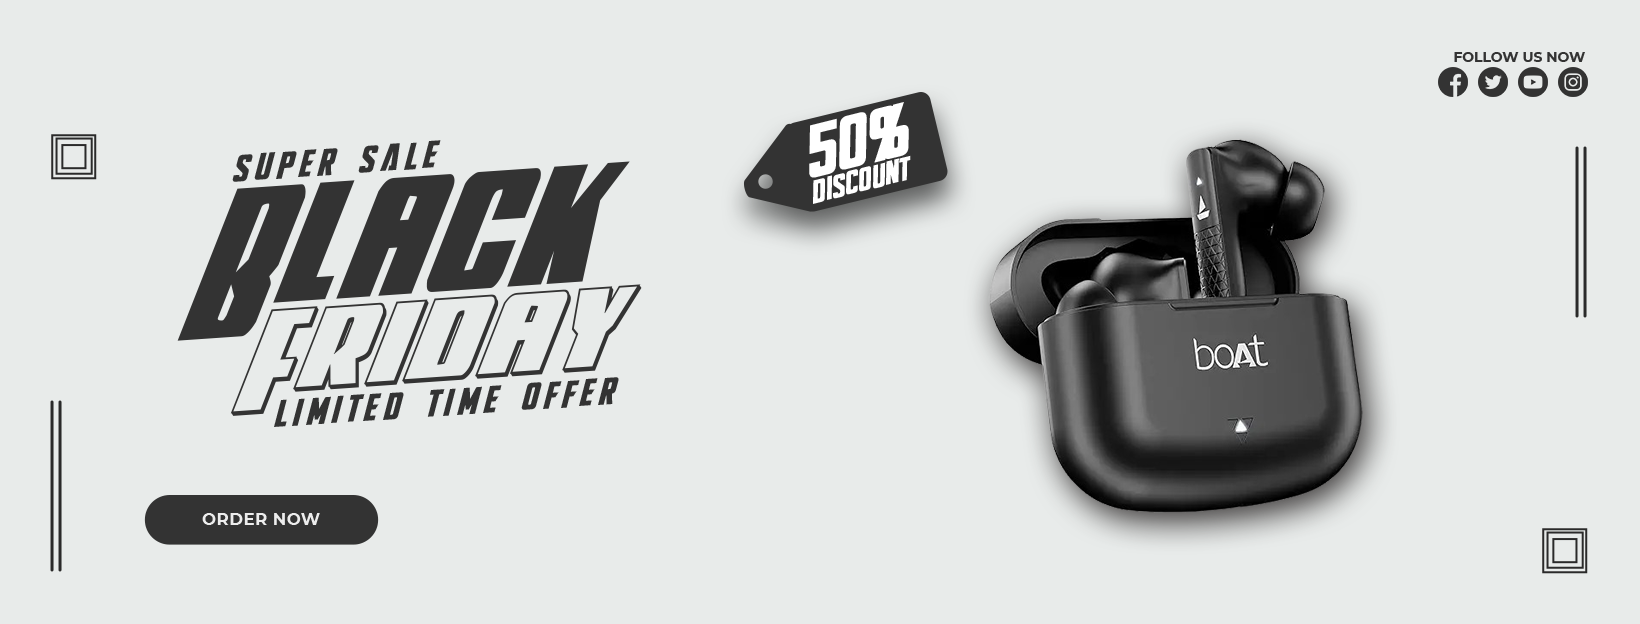
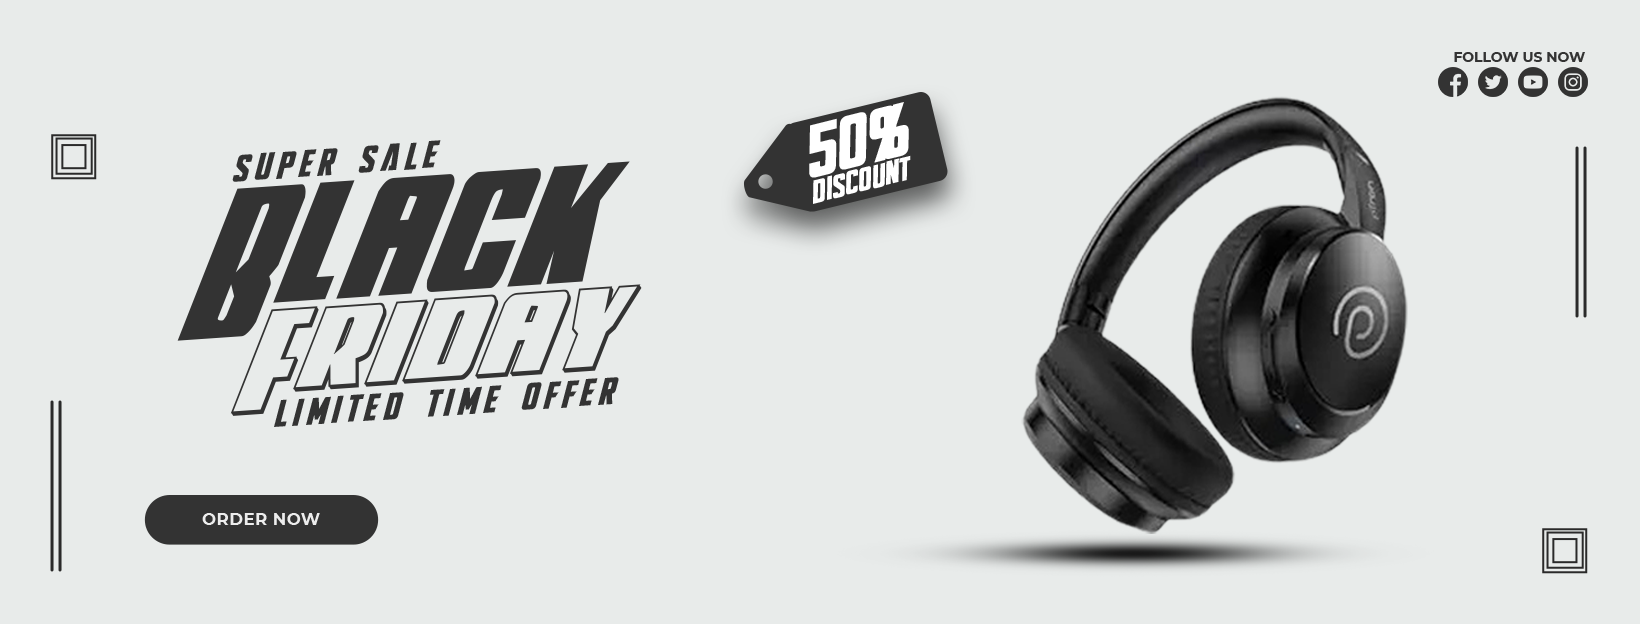
final commit

Changed region(s): [[0.5598, 0.1522, 0.8707, 0.9135]]

diff --git a/src/components/Banner.jsx b/src/components/Banner.jsx
@@ -51,98 +51,98 @@
 
 
 
-import { useEffect, useState } from "react";
-import { motion, AnimatePresence } from "framer-motion";
+// import { useEffect, useState } from "react";
+// import { motion, AnimatePresence } from "framer-motion";
 
-// Banner Images
-import shoesbanner from "../assets/shoesbanner.jpg";
-import hedsetbanner from "../assets/hedsetbanner.jpg";
-import airpodbanner from "../assets/airpodbenner.jpg";
-import watchbanner from "../assets/watchbanner.jpg";
+// // Banner Images
+// // import shoesbanner from "../assets/shoes banner.png";
+// // import hedsetbanner from "../assets/hedsetbanner.png";
+// // import airpodbanner from "../assets/airpodbenner.png";
+// // import watchbanner from "../assets/watchbanner.jpg";
 
 
 
-const banners = [watchbanner, shoesbanner, hedsetbanner, airpodbanner];
+// const banners = [watchbanner, shoesbanner, hedsetbanner, airpodbanner];
 
-const Banner = () => {
-  const [currentIndex, setCurrentIndex] = useState(0);
-  const [direction, setDirection] = useState(1); // 1 for next, -1 for prev
-  const [isPaused, setIsPaused] = useState(false);
+// const Banner = () => {
+//   const [currentIndex, setCurrentIndex] = useState(0);
+//   const [direction, setDirection] = useState(1); // 1 for next, -1 for prev
+//   const [isPaused, setIsPaused] = useState(false);
 
-  useEffect(() => {
-    if (isPaused) return;
-    const interval = setInterval(() => {
-      handleNext();
-    }, 3000); // change every 3 sec
-    return () => clearInterval(interval);
-  }, [currentIndex, isPaused]);
+//   useEffect(() => {
+//     if (isPaused) return;
+//     const interval = setInterval(() => {
+//       handleNext();
+//     }, 3000); // change every 3 sec
+//     return () => clearInterval(interval);
+//   }, [currentIndex, isPaused]);
 
-  const handleNext = () => {
-    setDirection(1);
-    setCurrentIndex((prev) => (prev + 1) % banners.length);
-  };
+//   const handleNext = () => {
+//     setDirection(1);
+//     setCurrentIndex((prev) => (prev + 1) % banners.length);
+//   };
 
-  const handlePrev = () => {
-    setDirection(-1);
-    setCurrentIndex((prev) =>
-      prev === 0 ? banners.length - 1 : prev - 1
-    );
-  };
+//   const handlePrev = () => {
+//     setDirection(-1);
+//     setCurrentIndex((prev) =>
+//       prev === 0 ? banners.length - 1 : prev - 1
+//     );
+//   };
 
-  const variants = {
-    enter: (direction) => ({
-      x: direction > 0 ? 300 : -300,
-      opacity: 0,
-    }),
-    center: {
-      x: 0,
-      opacity: 1,
-    },
-    exit: (direction) => ({
-      x: direction > 0 ? -300 : 300,
-      opacity: 0,
-    }),
-  };
+//   const variants = {
+//     enter: (direction) => ({
+//       x: direction > 0 ? 300 : -300,
+//       opacity: 0,
+//     }),
+//     center: {
+//       x: 0,
+//       opacity: 1,
+//     },
+//     exit: (direction) => ({
+//       x: direction > 0 ? -300 : 300,
+//       opacity: 0,
+//     }),
+//   };
 
-  return (
-    <div
-      className="relative w-full  -mt-10 lg:mt-12  h-[240px] sm:h-[300px] md:h-[400px] lg:h-[665px] loverflow-hidden"
-      onMouseEnter={() => setIsPaused(true)}
-      onMouseLeave={() => setIsPaused(false)}
-    >
-      <AnimatePresence custom={direction}>
-        <motion.img
-          key={currentIndex}
-          src={banners[currentIndex]}
-          custom={direction}
-          variants={variants}
-          initial="enter"
-          animate="center"
-          exit="exit"
-          transition={{ duration: 0.5 }}
-          className="absolute w-full h-full object-contain object-center cursor-pointer"
-          onClick={() => window.location.href = "/shop"}
-        />
-      </AnimatePresence>
+//   return (
+//     <div
+//       className="relative w-full  -mt-10 lg:mt-12  h-[240px] sm:h-[300px] md:h-[400px] lg:h-[665px] loverflow-hidden"
+//       onMouseEnter={() => setIsPaused(true)}
+//       onMouseLeave={() => setIsPaused(false)}
+//     >
+//       <AnimatePresence custom={direction}>
+//         <motion.img
+//           key={currentIndex}
+//           src={banners[currentIndex]}
+//           custom={direction}
+//           variants={variants}
+//           initial="enter"
+//           animate="center"
+//           exit="exit"
+//           transition={{ duration: 0.5 }}
+//           className="absolute w-full h-full object-contain object-center cursor-pointer"
+//           onClick={() => window.location.href = "/shop"}
+//         />
+//       </AnimatePresence>
 
-      {/* Optional Dots */}
-     {/* <div className="absolute bottom-2 sm:bottom-4 md:bottom-6 left-1/2 transform -translate-x-1/2 flex gap-2 z-10">
-  {banners.map((_, i) => (
-    <div
-      key={i}
-      onClick={() => {
-        setDirection(i > currentIndex ? 1 : -1);
-        setCurrentIndex(i);
-      }}
-      className={`w-3 h-3 rounded-full ${
-        i === currentIndex ? "bg-black" : "bg-gray-300"
-      } cursor-pointer`}
-    />
-  ))}
-</div> */}
+//       {/* Optional Dots */}
+//      {/* <div className="absolute bottom-2 sm:bottom-4 md:bottom-6 left-1/2 transform -translate-x-1/2 flex gap-2 z-10">
+//   {banners.map((_, i) => (
+//     <div
+//       key={i}
+//       onClick={() => {
+//         setDirection(i > currentIndex ? 1 : -1);
+//         setCurrentIndex(i);
+//       }}
+//       className={`w-3 h-3 rounded-full ${
+//         i === currentIndex ? "bg-black" : "bg-gray-300"
+//       } cursor-pointer`}
+//     />
+//   ))}
+// </div> */}
 
-    </div>
-  );
-};
+//     </div>
+//   );
+// };
 
-export default Banner;
+// export default Banner;

diff --git a/src/components/Header.jsx b/src/components/Header.jsx
@@ -329,12 +329,18 @@ import { useEffect, useState } from "react";
 import { motion, AnimatePresence } from "framer-motion";
 
 // Banner Images
-import shoesbanner from "../assets/shoesbanner.jpg";
-import hedsetbanner from "../assets/hedsetbanner.jpg";
-import airpodbanner from "../assets/airpodbenner.jpg";
-import watchbanner from "../assets/watchbanner.jpg";
+// import shoesbanner from "../assets/shoesbanner.jpg";
+// import hedsetbanner from "../assets/hedsetbanner.jpg";
+// import hedsetbanner from "../assets/hedset banner.png"
+// import shoebanner from "../assets/shoes banner.png"
+// import airpodsbanner from "../assets/hedsetbannernew.png"
+import shoesbanner from "../assets/shoesnew.png"
+import airpodbanner from "../assets/airpodnew.png"
+import showebanner from "../assets/shoesnew.png"
+import hedsetbanner from "../assets/hedsetbannernew.png"
 
-const banners = [watchbanner, shoesbanner, hedsetbanner, airpodbanner];
+
+const banners = [airpodbanner,shoesbanner,hedsetbanner, showebanner];
 
 const Header = () => {
   const [currentIndex, setCurrentIndex] = useState(0);

diff --git a/src/pages/Home.jsx b/src/pages/Home.jsx
@@ -30,7 +30,7 @@
 
 
 import { useState } from "react";
-import Banner from "../components/Banner";
+// import Banner from "../components/Banner";
 import Categories from "../components/Categories";
 import Footer from "../components/Footer";
 import Header from "../components/Header";
@@ -42,8 +42,8 @@ const Home = () => {
 
   return (
     <div>
-      <Topbanner/>
-      {/* <Header /> */}
+      {/* <Topbanner/> */}
+      <Header />
       <Categories onCategoryClick={setSelectedCategory} /> {/* Pass prop */}
       <Popular selectedCategory={selectedCategory} /> {/* Send to Popular */}
       {/* <Banner /> */}
